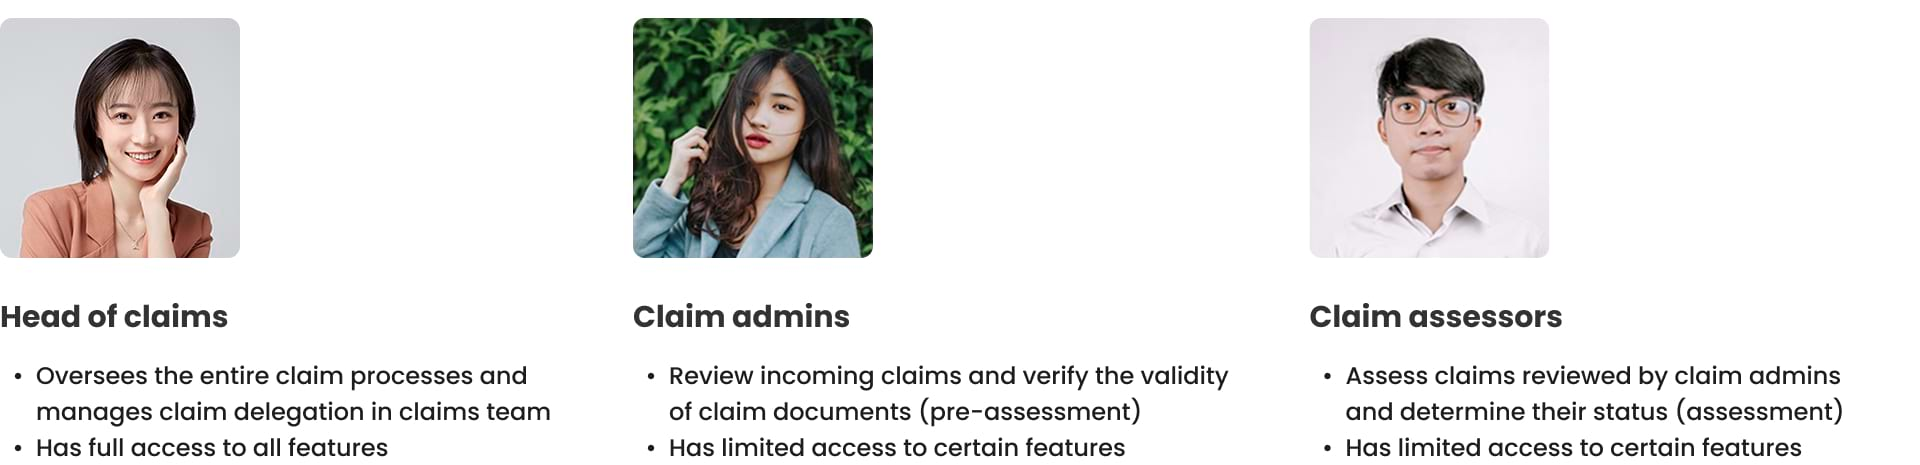
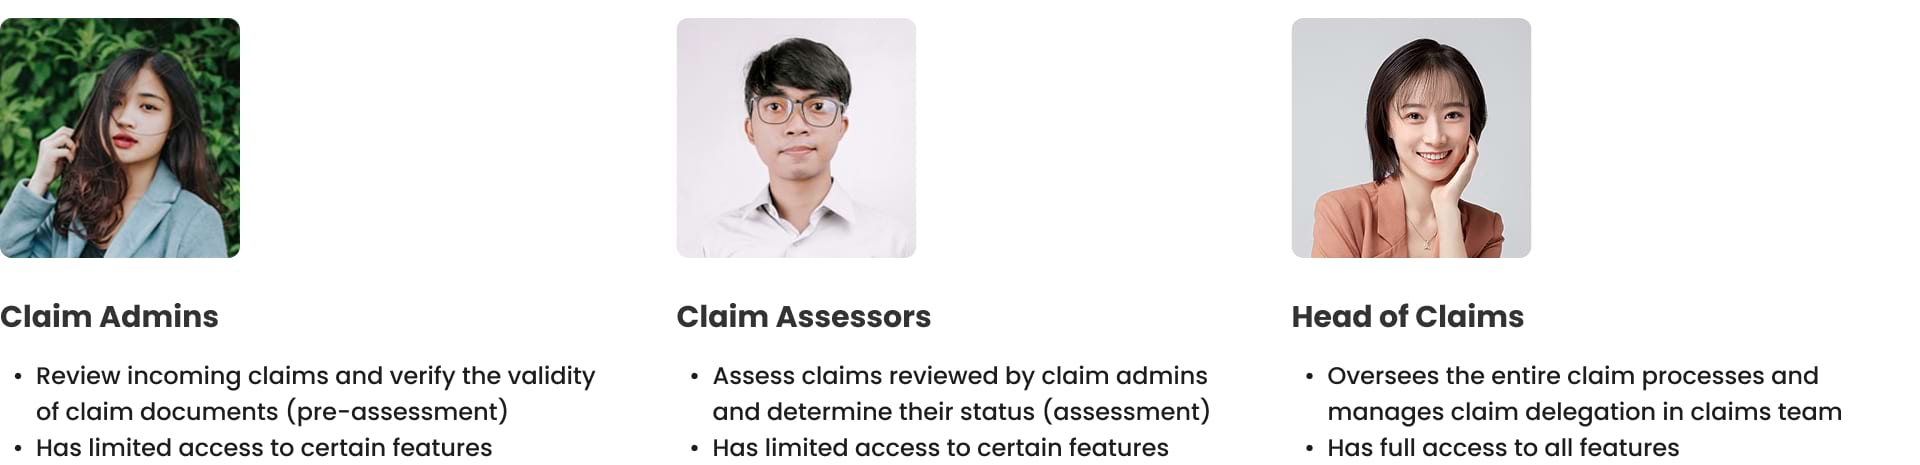
Fixed platform users title naming

diff --git a/project-sunday-claim-middleware.html b/project-sunday-claim-middleware.html
@@ -102,7 +102,7 @@
 					<p>Sunday's existing claim management system relies on inefficient manual processes, such as spreadsheets and documents. This has led to slow claim processing times, negatively impacting operational efficiency and customer satisfaction.</p>
 
 	        <h3 class="heading-border">Key pain points</h3>
-	        <p>Prior to the kickoff, we had discussions with the claims team and development director to discuss the plan of improving the existing claim process to be more efficient. We highlighted key pain points of the existing claim process based on the focus group discussions with the team.</p>
+	        <p>Prior to the kickoff, we had discussions with the claims team and Development Director to discuss the plan of improving the existing claim process to be more efficient. We highlighted key pain points of the existing claim process based on the focus group discussions with the team.</p>
 
 	        <h4>Key pain points of the existing claim process:</h4>
 					<ul>
@@ -113,7 +113,7 @@
 		      </ul>
 
 	        <h3 class="heading-border">Platform users</h3>
-	        <p>Three distinct user roles will use this platform: claim admins, claim assessors, and heads of claims. Each role will have varying levels of access to platform features.</p>
+	        <p>Three distinct user roles will use this platform: Claim Admins, Claim Assessors, and Head of Claims. Each role will have varying levels of access to platform features.</p>
 	        <img alt="Claim middleware users" src="img/sunday/cm-users.jpg">
 
 	        <h3 class="heading-border">Defining goal</h3>
@@ -135,10 +135,10 @@
 					<ul>
 						<li>Claim list with sort and filter capabilities for each column header</li>
 						<li>Comprehensive claim details information for non-optical and optical claims</li>
-						<li>Claim admins can conduct a pre-assessment process immediately after claims are submitted by clients</li>
-						<li>Claim assessors can conduct an assessment process after claims are reviewed by claim admins</li>
-						<li>Head of claims can assign claim admins and claim assessors to handle specific clients</li>
-						<li>Head of claims can disable access and set active date for claim admins and claim assessors for on leave situation</li>
+						<li>Claim Admins can conduct a pre-assessment process immediately after claims are submitted by clients</li>
+						<li>Claim Assessors can conduct an assessment process after claims are reviewed by Claim Admins</li>
+						<li>Head of Claims can assign Claim Admins and Claim Assessors to handle specific clients</li>
+						<li>Head of Claims can disable access and set active date for Claim Admins and Claim Assessors for on leave situation</li>
 						<li>Creating new claim manually to accommodate claims submitted via email or WhatsApp message</li>
 						<li>Email notification to track claim status for claims team and clients.</li>
 		      </ul>
